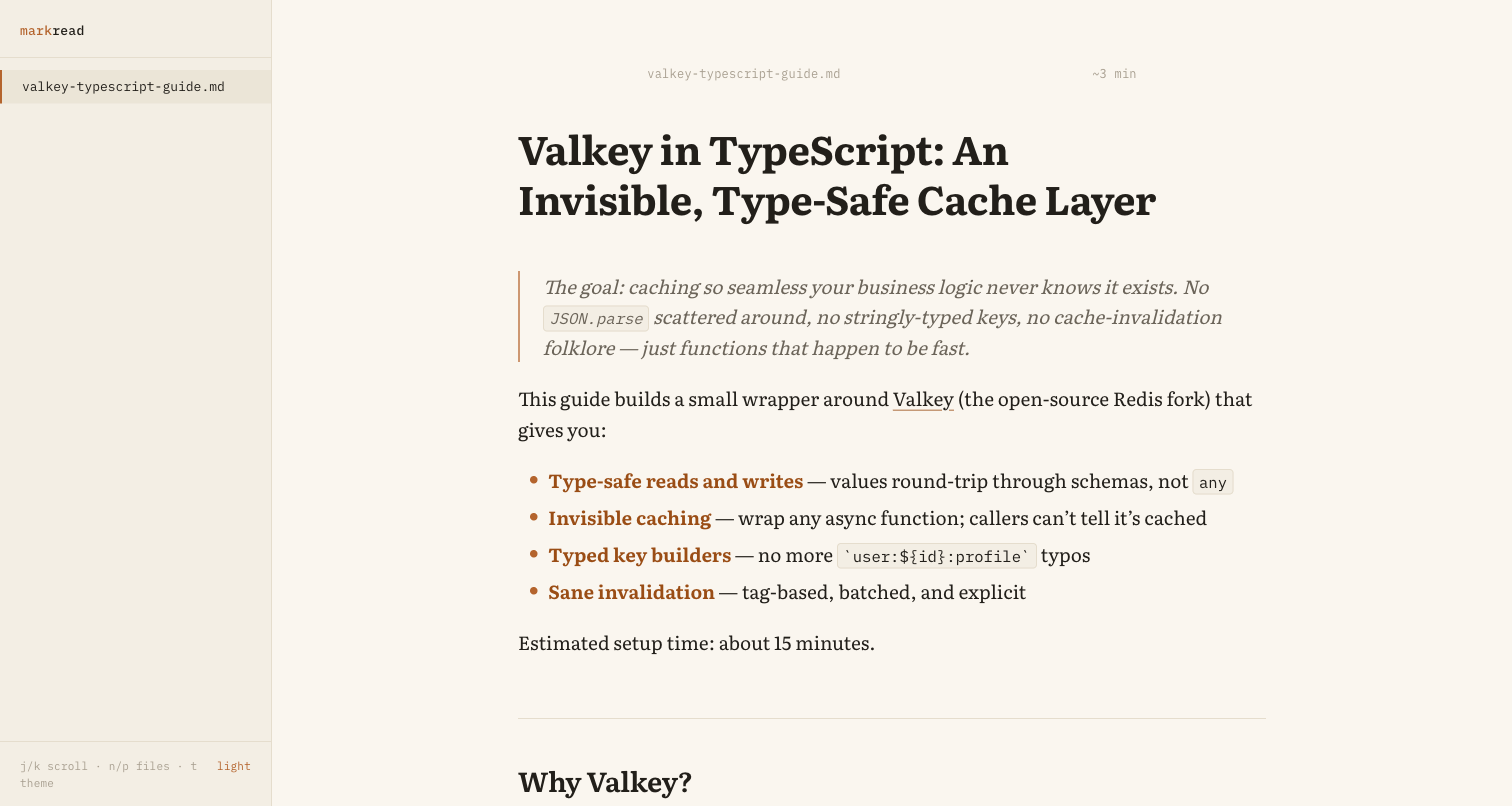
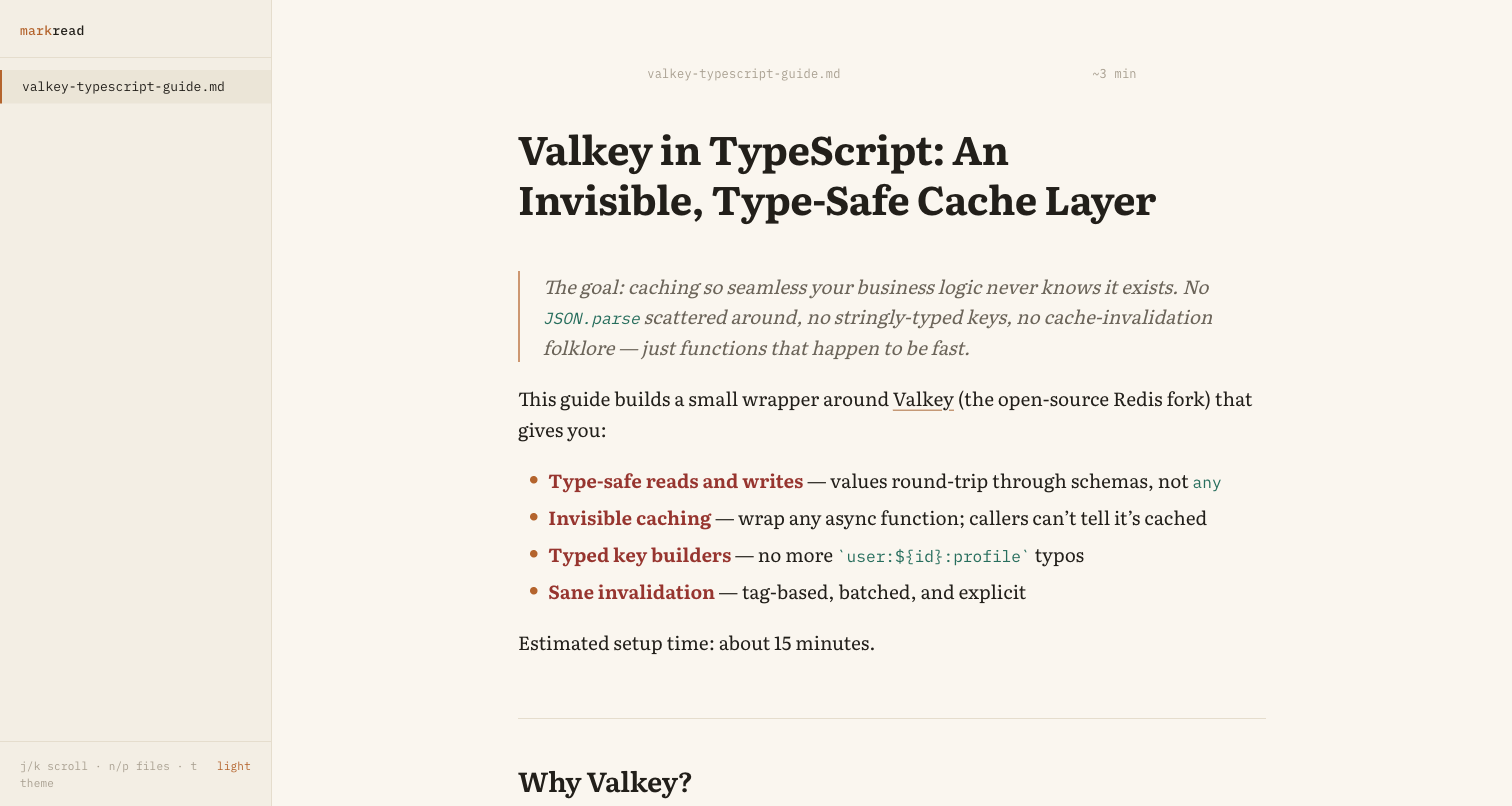
Unbox inline code and give each theme a distinct emphasis identity
Inline code is now a colored token flowing with the text (no
background box): mint in Vesper, green in Tokyo Night, deep teal
on light. Bold text diverges per theme instead of reading orange
everywhere: bordeaux rubrication on light paper, peach in Vesper,
blue in Tokyo Night — orange in Tokyo Night is reserved for the
reward accent, never prose.

diff --git a/web/src/styles.css b/web/src/styles.css
@@ -16,10 +16,11 @@
   /* The reward color. Use sparingly or it stops working. */
   --accent: #b4642d;
 
-  /* Semantic text palette — per theme */
-  --emphasis: #9a4d15; /* bold text */
-  --link: #9a4d15; /* link underline + hover */
-  --marker: #b4642d; /* list bullets, quote bar */
+  /* Semantic text palette — per theme, each with its own identity */
+  --emphasis: #97352f; /* bold — bordeaux, print rubrication on cream */
+  --link: #9a4d15; /* link underline + hover — copper */
+  --marker: #b4642d; /* list bullets, quote bar — copper */
+  --code: #276e5d; /* inline code — deep teal */
 
   --font-body: 'Literata Variable', Georgia, serif;
   --font-ui: 'IBM Plex Mono', ui-monospace, SFMono-Regular, Menlo, monospace;
@@ -46,6 +47,7 @@
   --emphasis: #ffc799;
   --link: #ffc799;
   --marker: #ffc799;
+  --code: #99ffe4; /* vesper mint — the secondary token */
 }
 
 /* Tokyo Night — indigo depths, storm-blue inks, neon at the edges. */
@@ -57,10 +59,12 @@
   --ink-faint: #565f89;
   --rule: #292e42;
   --accent: #ff9e64;
-  /* Tokyo Night earns its multi-color reputation. */
-  --emphasis: #ff9e64; /* orange — bold */
-  --link: #7aa2f7; /* blue — links */
+  /* Tokyo Night earns its multi-color reputation — orange is
+     reserved for the reward accent, never prose. */
+  --emphasis: #7aa2f7; /* blue — bold, the theme's hero color */
+  --link: #7dcfff; /* cyan — links */
   --marker: #bb9af7; /* purple — bullets & quote bars */
+  --code: #9ece6a; /* green — inline code */
 }
 
 * {
@@ -331,11 +335,10 @@ body,
   font-size: 0.82em;
 }
 
+/* Inline code flows with the text — a token color, not a box. */
 .doc-content :not(pre) > code {
-  background: var(--paper-raised);
-  border: 1px solid var(--rule);
-  border-radius: 4px;
-  padding: 0.1em 0.35em;
+  color: var(--code);
+  font-size: 0.85em;
 }
 
 .doc-content pre {
